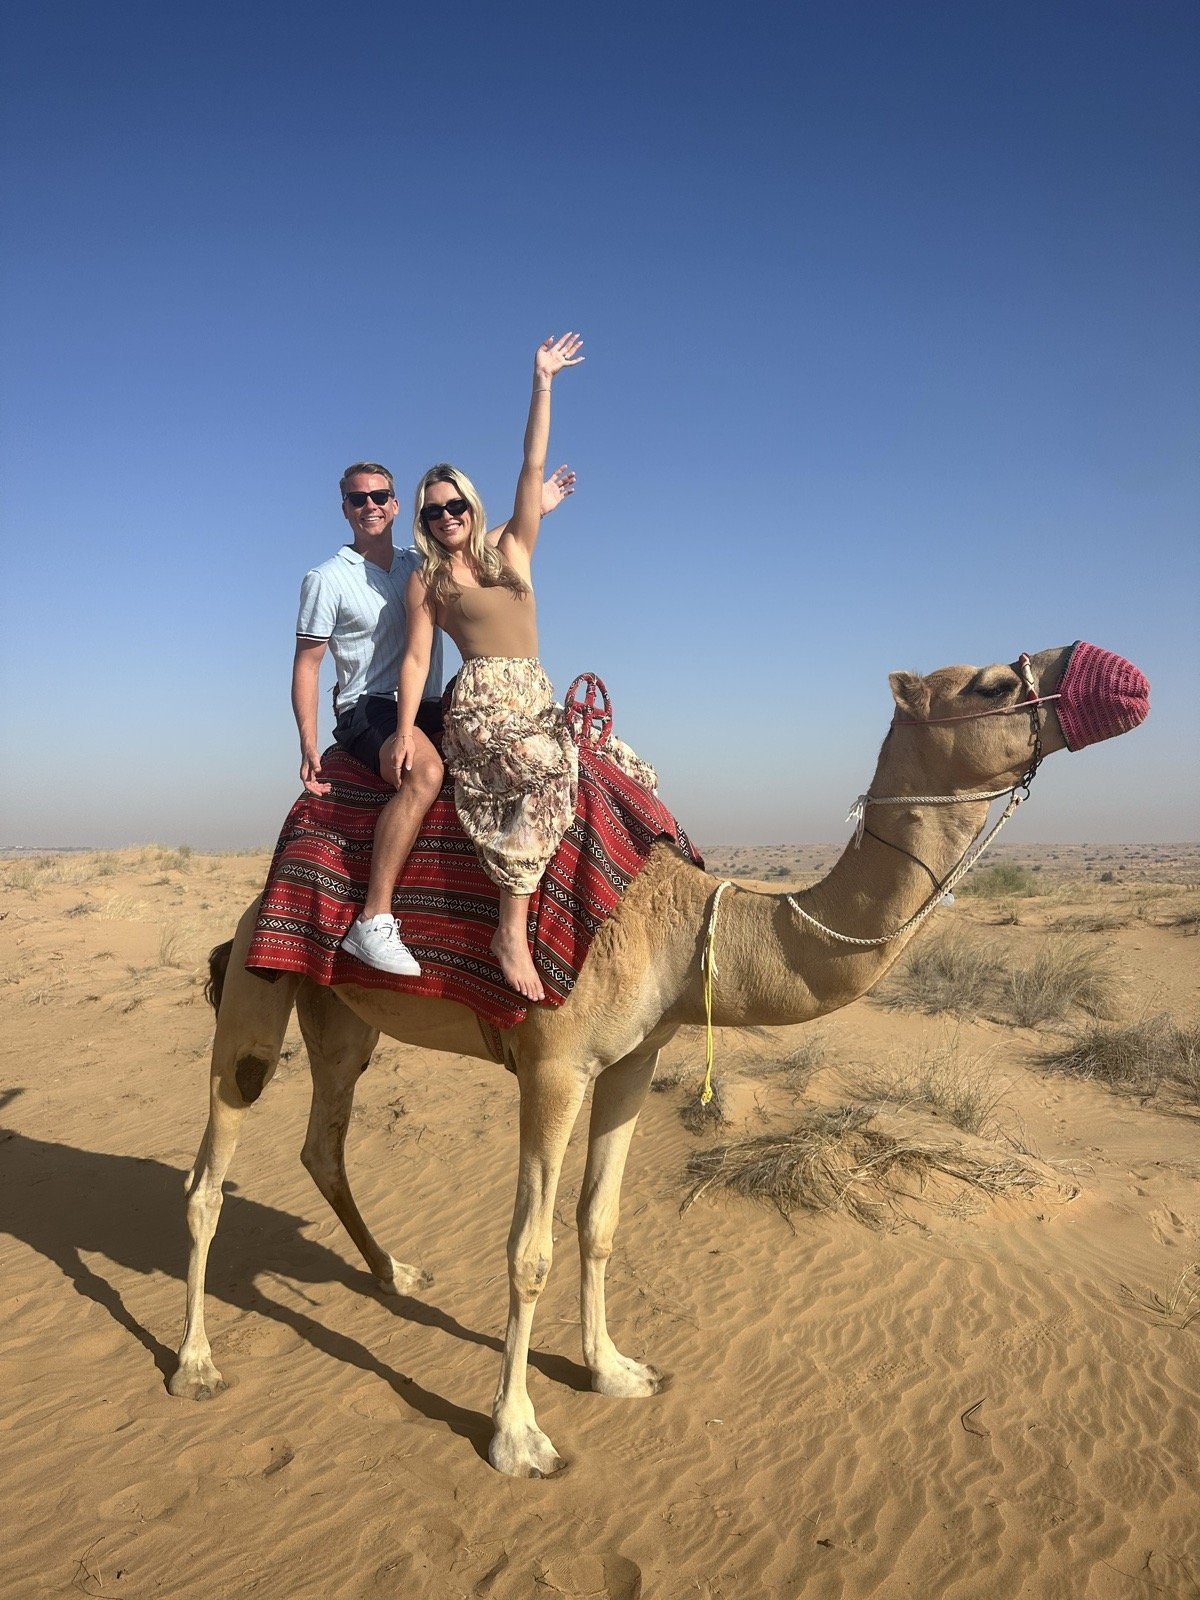
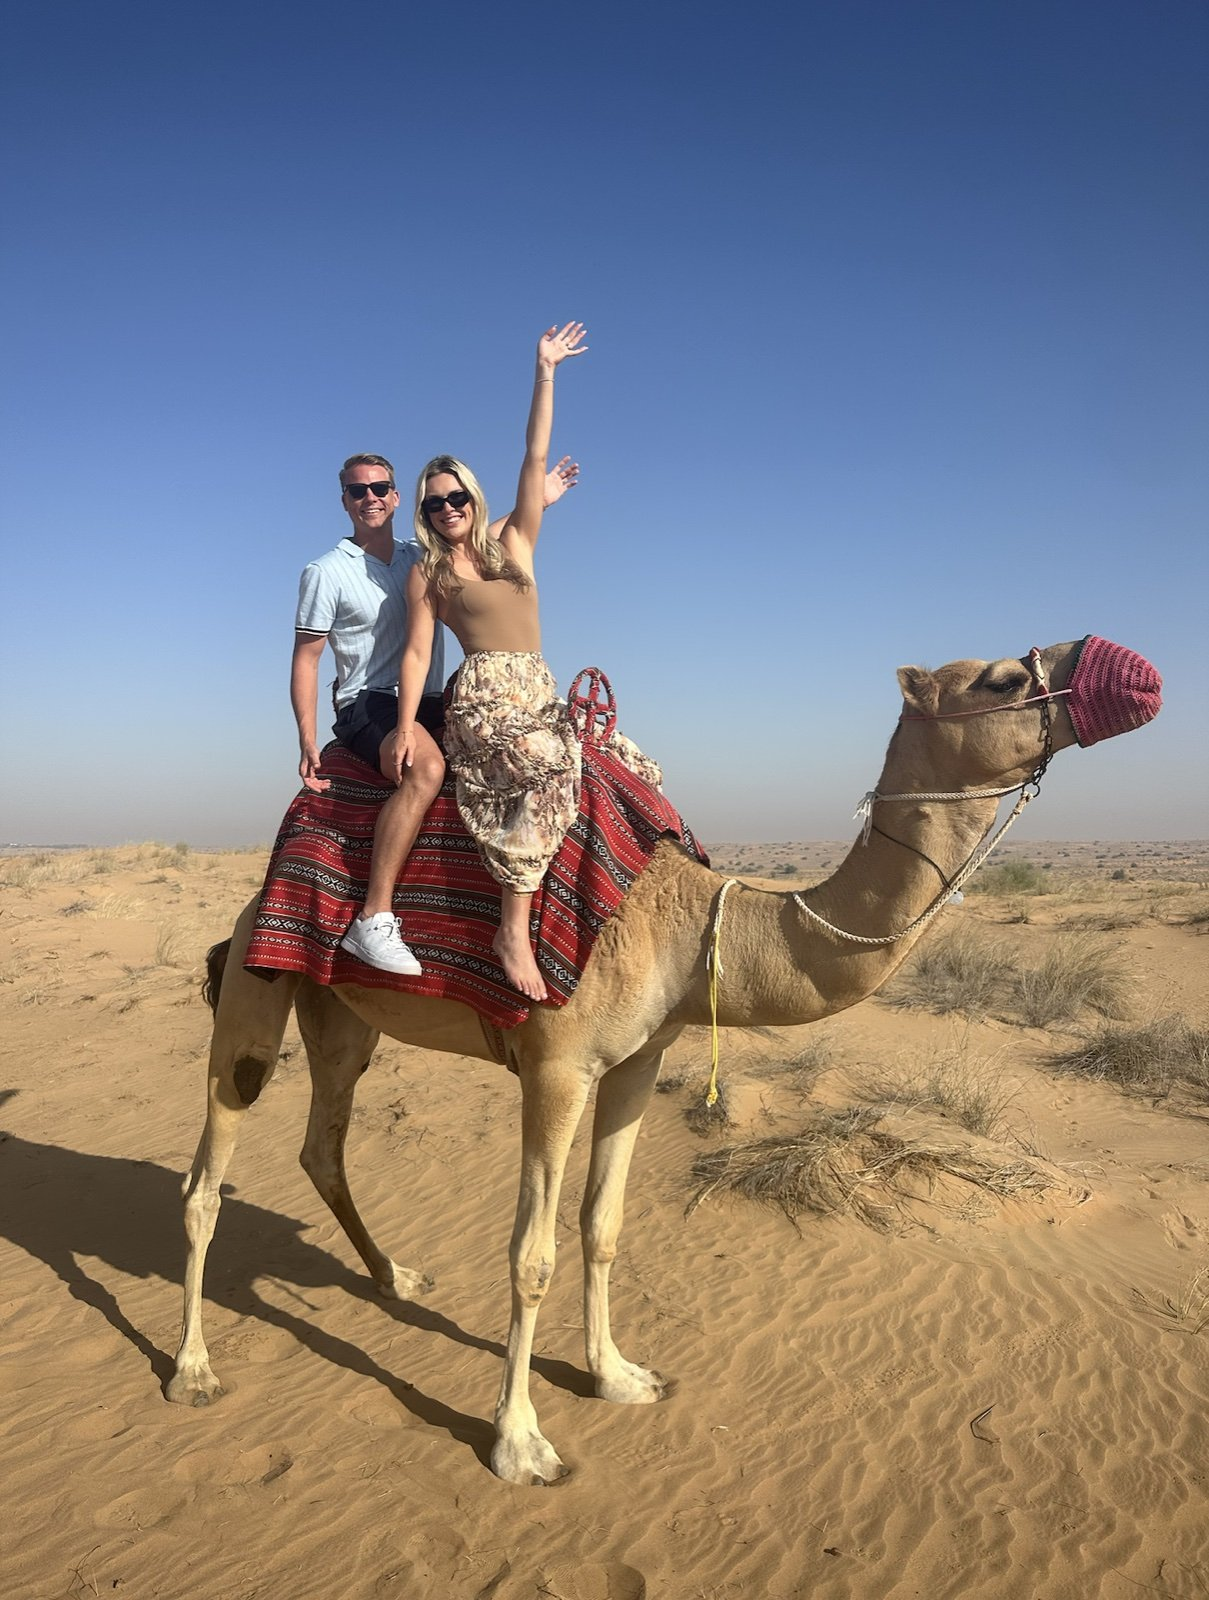
Welcome guide: replace Dubai (now upright) + add Ireland & London
Dubai
- New source: Client Pics/dubai.png (PNG this time, not HEIC).
  1209×1600 portrait, correctly oriented from the start. Strips of
  EXIF as a belt-and-suspenders so no browser can re-rotate it.
  Replaces testimonial-16-dubai.jpg.

NEW cards (carousel now 19 total)
- 19  Ireland — two clients on a links golf course (the cap reads
      "Royal County Down 1889", which is the kind of detail Wilson's
      clients pick up on)
- 20  London, England — multi-gen family group with Big Ben and
      Houses of Parliament behind

All 3 photos sips-converted from /Users/wschubert/Downloads/Client Pics/
(dubai.png, ireland.heic, london.HEIC) → resized to 1600px max, JPEG q85,
then re-saved via Pillow without an exif block to prevent the
double-rotation bug that hit the original Dubai HEIC.

diff --git a/welcome-guide.html b/welcome-guide.html
@@ -1011,6 +1011,24 @@
                                 <span class="wg-testimonial-name">Marrakech, Morocco</span>
                             </figcaption>
                         </figure>
+
+                        <figure class="wg-testimonial-card">
+                            <div class="wg-testimonial-photo">
+                                <img src="/welcome-guide-images/testimonial-19-ireland.jpg" alt="Clients on a links golf course in Ireland" loading="lazy">
+                            </div>
+                            <figcaption class="wg-testimonial-cap">
+                                <span class="wg-testimonial-name">Ireland</span>
+                            </figcaption>
+                        </figure>
+
+                        <figure class="wg-testimonial-card">
+                            <div class="wg-testimonial-photo">
+                                <img src="/welcome-guide-images/testimonial-20-london.jpg" alt="Clients in front of Big Ben and the Houses of Parliament, London" loading="lazy">
+                            </div>
+                            <figcaption class="wg-testimonial-cap">
+                                <span class="wg-testimonial-name">London, England</span>
+                            </figcaption>
+                        </figure>
                     </div><!-- /.testimonials-track -->
                 </div><!-- /.testimonials-viewport -->
                 <button class="testimonials-arrow testimonials-arrow--next" type="button" aria-label="Next trips">
